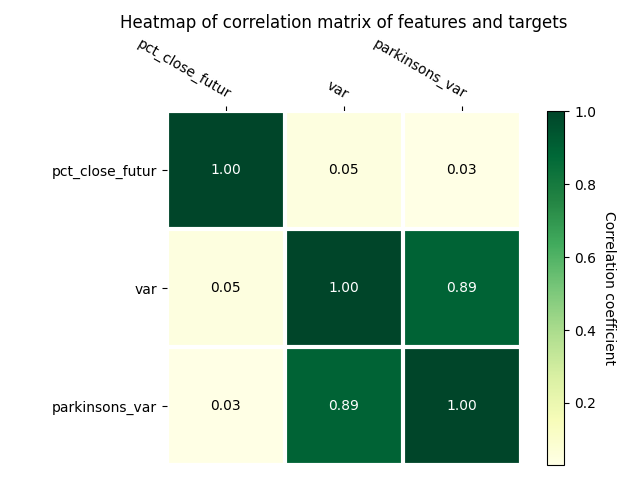
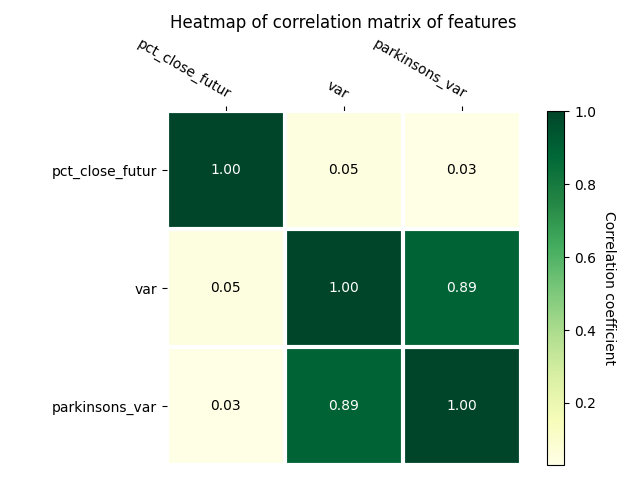
Correct title.

Changed region(s): [[0.1875, 0.0312, 0.9062, 0.0625]]

diff --git a/main.py b/main.py
@@ -235,7 +235,7 @@ def main() -> int:
                                cmap="YlGn", cbarlabel="Correlation coefficient")
     texts = heatmap.annotate_heatmap(im)
 
-    ax.set_title("Heatmap of correlation matrix of features and targets")
+    ax.set_title("Heatmap of correlation matrix of features")
 
     fig.tight_layout()
 
